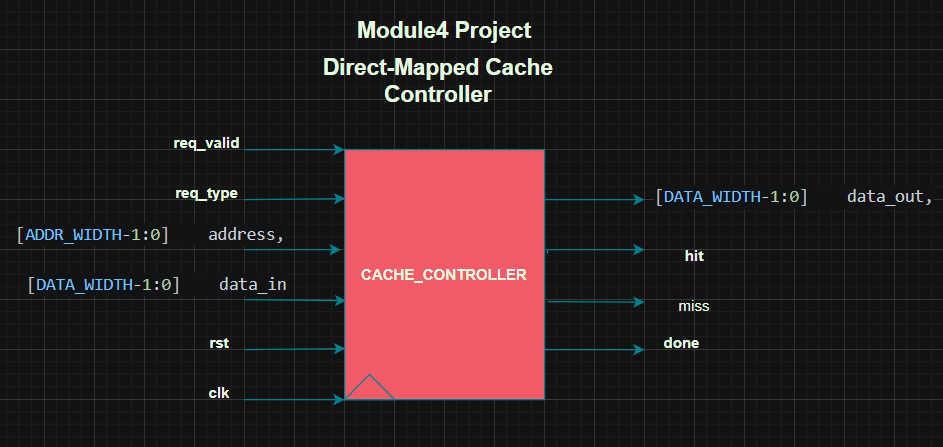
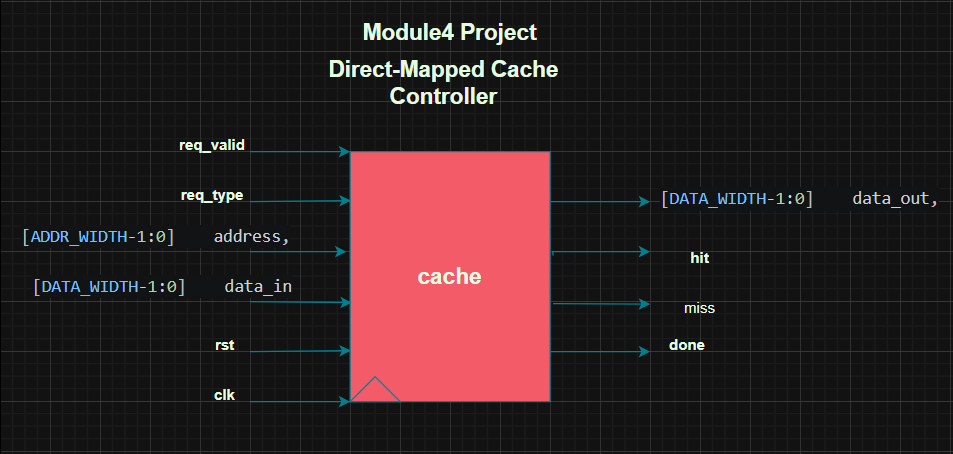
Added Updated Module4 Project

diff --git a/Module4/DirectMappedCacheController/README.md b/Module4/DirectMappedCacheController/README.md
@@ -11,13 +11,13 @@ To design and verify a simple parameterized direct‑mapped cache controller in 
 ```
 DirectMappedCacheController/
 ├── docs/
-│   └── BlockDiagram.png
-│   └── AddressBreakdown.png
-│   └── cache_controller_log_result.png     
+│   ├── BlockDiagram.png
+│   ├── AddressBreakdown.png
+│   └── cache_log_result.png     
 ├── waveforms/
 │   └── cache_waveform.png       # Waveform screenshot from EPWave
-├── cache_controller.sv          # RTL implementation (parameterised)
-├── tb_cache_controller.sv       # Self‑checking testbench
+├── cache.sv                     # RTL implementation (parameterised)
+├── cache_tb.sv                  # Self‑checking testbench
 └── README.md                    # This file
 ```
 
@@ -25,13 +25,13 @@ DirectMappedCacheController/
 
 ## Parameters (from Project Specification)
 
-| Parameter      | Value | Description                      |
-| :------------- | :---: | :------------------------------- |
-| `ADDR_WIDTH`   | 16    | Address bus width                |
-| `DATA_WIDTH`   | 32    | Word width (bits)                |
-| `INDEX_WIDTH`  | 4     | log₂(16 lines) – direct‑mapped   |
-| `NUM_BLOCKS`   | 16    | Number of cache lines            |
-| `WORDS_PER_BLOCK` | 4  | Words per cache line             |
+| Parameter           | Value | Description                        |
+| :------------------ | :---: | :--------------------------------- |
+| `ADDR_WIDTH`        | 16    | Address bus width                  |
+| `DATA_WIDTH`        | 32    | Word width (bits)                  |
+| `INDEX_WIDTH`       | 4     | log₂(16 lines) – direct‑mapped     |
+| `NUM_BLOCKS`        | 16    | Number of cache lines              |
+| `WORDS_PER_BLOCK`   | 4     | Words per cache line               |
 
 **Derived (calculated automatically):**
 - `TAG_WIDTH`    = `ADDR_WIDTH - INDEX_WIDTH - OFFSET_WIDTH` = 16 – 4 – 2 = 10 bits
@@ -43,21 +43,21 @@ DirectMappedCacheController/
 
 ### Components Implemented
 
-| Component          | Description                                                                 |
-| :----------------- | :-------------------------------------------------------------------------- |
-| **Address Decoder**| Splits `address` into `tag`, `index`, `offset` using combinational logic.   |
-| **Data Array**     | 2D array: `[NUM_BLOCKS-1:0][WORDS_PER_BLOCK-1:0]` of `DATA_WIDTH`-bit words.|
-| **Tag Array**      | Stores `TAG_WIDTH`-bit tags for each line.                                  |
-| **Valid‑bit Array**| One bit per line indicating valid data.                                    |
-| **Hit/Miss Logic** | Combinational: `valid[index] && (tag_array[index] == tag)`.                |
-| **Cache Controller**| FSM with states `IDLE`, `READ`, `WRITE`, `DONE`; controls `rd_en`, `wr_en`, `done`. |
-| **Write Policy**   | **Write‑allocate**: a write always installs the address (updates data, tag, valid). |
+| Component            | Description                                                                 |
+| :------------------- | :-------------------------------------------------------------------------- |
+| **Address Decoder**  | Splits `address` into `tag`, `index`, `offset` using combinational logic.   |
+| **Data Array**       | 2D array: `[NUM_BLOCKS-1:0][WORDS_PER_BLOCK-1:0]` of `DATA_WIDTH`-bit words.|
+| **Tag Array**        | Stores `TAG_WIDTH`-bit tags for each line.                                  |
+| **Valid‑bit Array**  | One bit per line indicating valid data.                                    |
+| **Hit/Miss Logic**   | Combinational: `valid[index] && (tag_array[index] == tag)`.                |
+| **Cache Controller** | FSM with states `IDLE`, `READ`, `WRITE`, `DONE`; controls `rd_en`, `wr_en`, `done`. |
+| **Write Policy**     | **Write‑allocate**: a write always installs the address (updates data, tag, valid). |
 
 ---
 
 ## Self‑Checking Testbench
 
-The testbench (`tb_cache_controller.sv`) verifies the following cases automatically, printing `[PASS]` or `[FAIL]` for each:
+The testbench (`cache_tb.sv`) verifies the following cases automatically, printing `[PASS]` or `[FAIL]` for each:
 
 | Test | Description |
 | :--- | :--- |
@@ -98,8 +98,8 @@ RESULT: ALL TESTS PASSED
 ## How to Simulate
 
 ### On EDA Playground
-1. Paste `cache_controller.sv` into the **design.sv** pane.
-2. Paste `tb_cache_controller.sv` into the **testbench.sv** pane.
+1. Paste `cache.sv` into the **design.sv** pane.
+2. Paste `cache_tb.sv` into the **testbench.sv** pane.
 3. Set Language = `SystemVerilog`, Tool = `Synopsys VCS` (or `Aldec Riviera-PRO`).
 4. Tick **Open EPWave after run**.
 5. Click **Run** – the log will display all PASS/FAIL messages.
@@ -107,8 +107,8 @@ RESULT: ALL TESTS PASSED
 
 ### Using a Local Simulator (e.g., VCS, ModelSim)
 ```bash
-vlog -sv cache_controller.sv tb_cache_controller.sv
-vsim -c tb_cache_controller -do "run -all; exit"
+vlog -sv cache.sv cache_tb.sv
+vsim -c cache_tb -do "run -all; exit"
 # or
 simv
 ```
